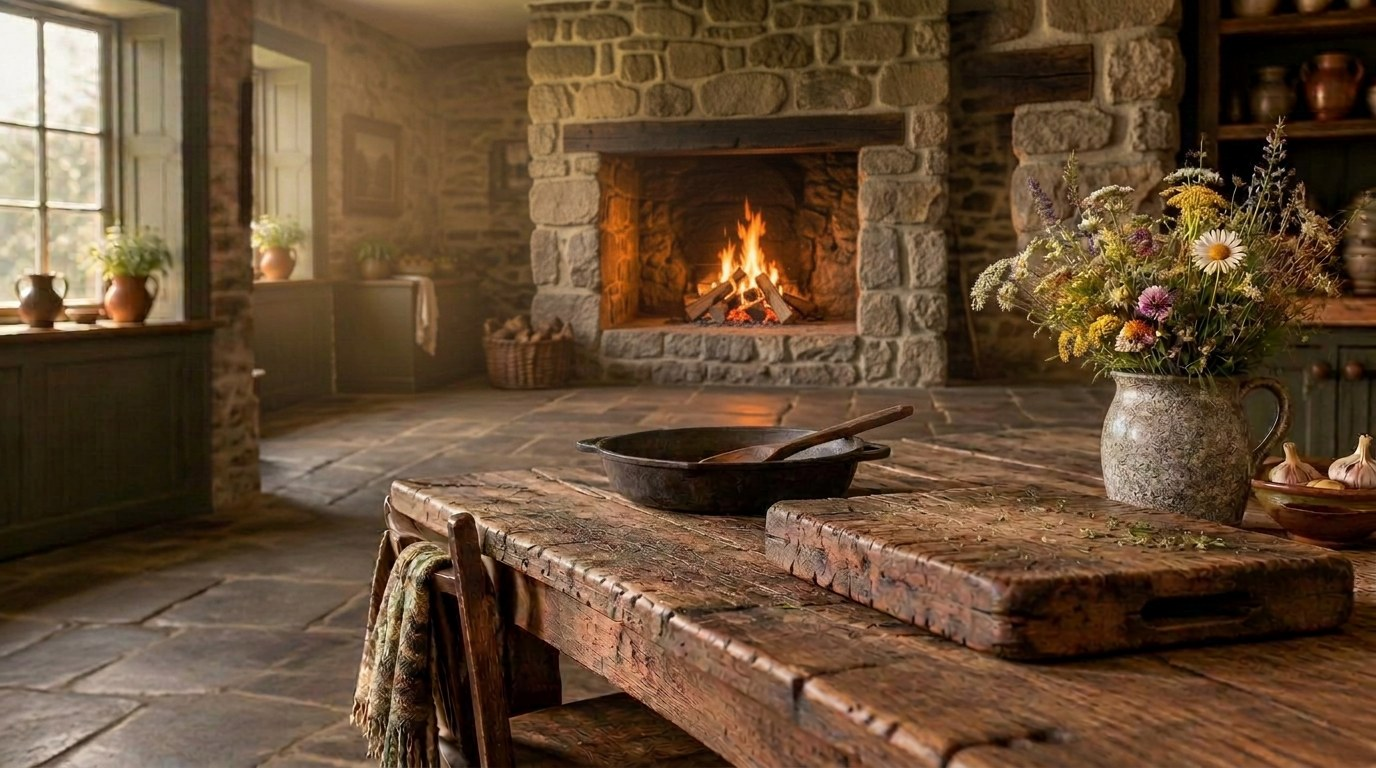
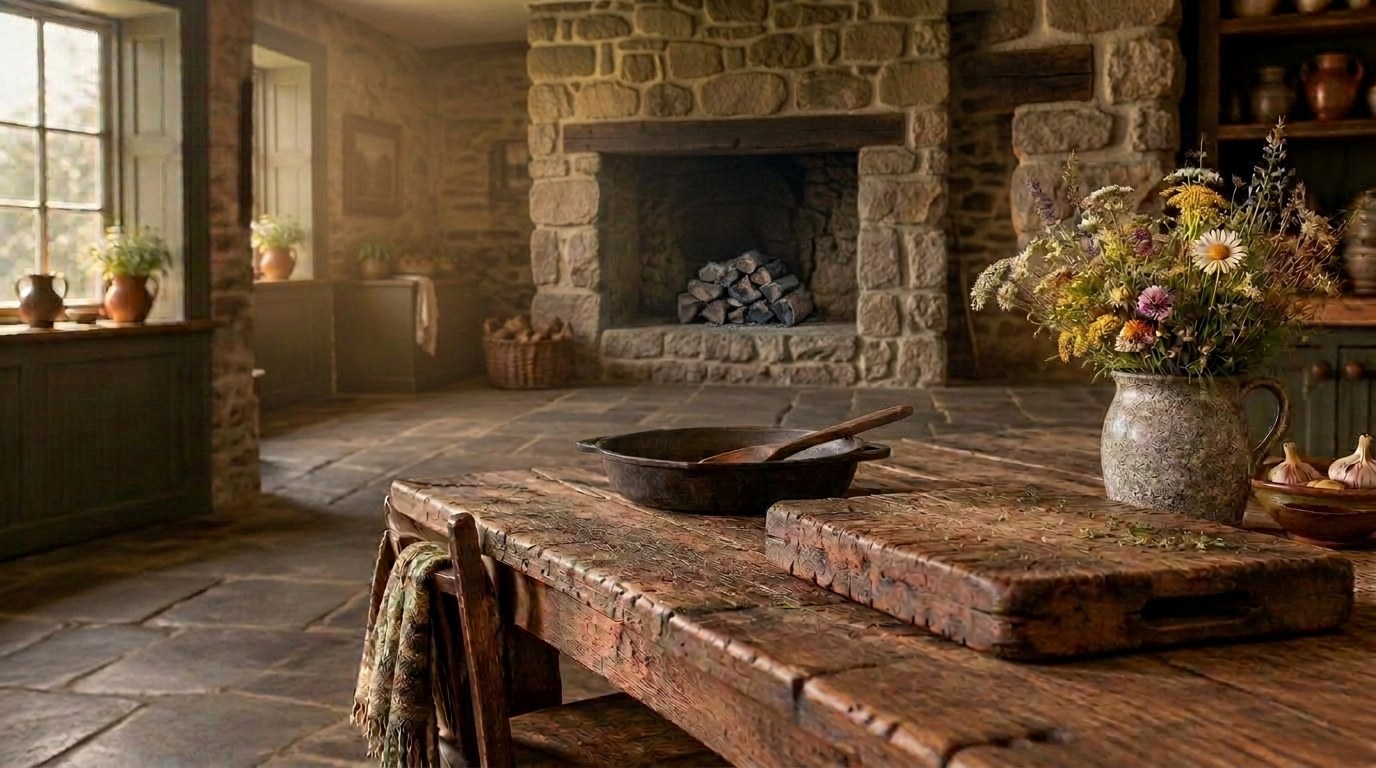
Changes

diff --git a/src/routes/index.tsx b/src/routes/index.tsx
@@ -45,7 +45,7 @@ function Index() {
       </header>
 
       <section id="top" className="relative min-h-[94svh] bg-primary text-primary-foreground">
-        <img src={heroImage} width={1200} height={1408} alt="Massive oak table with a cast iron pan and rustic wooden spoon, thick weathered chopping board and a stoneware jug of colourful flowers, with a boulder-stone fireplace burning logs set far back across the flagstone floor" className="absolute inset-0 h-full w-full object-cover image-rise" />
+        <img src={heroImage} width={1200} height={1408} alt="Massive oak table with a cast iron pan and rustic wooden spoon, thick weathered chopping board and a stoneware jug of colourful flowers, with an unlit boulder-stone fireplace set far back across the flagstone floor" className="absolute inset-0 h-full w-full object-cover image-rise" />
         <div className="absolute inset-0 bg-gradient-to-r from-primary/85 via-primary/35 to-transparent" />
         <div className="relative z-10 flex min-h-[94svh] flex-col justify-end px-5 pb-14 pt-28 sm:px-8 lg:px-12 lg:pb-20">
           <p className="mb-5 text-xs uppercase text-accent">Issue 04 · The Kiln Room</p>

diff --git a/roadmap.md b/roadmap.md
@@ -6,3 +6,4 @@
 - [x] Move the hero's pan back to the pot's old spot on the tabletop behind the chopping board, leaving the board clear.
 - [x] Push the hero's fireplace 2-3 m deeper into the room, rebuild it from boulders four times larger, and fill it with big burning logs instead of metal.
 - [x] Widen the gap between the hero's table and fireplace so the hearth reads several metres back across open flagstone floor.
+- [x] Take the fire out of the hero's fireplace — unlit logs, no flames or orange glow — leaving the rest of the scene untouched.
